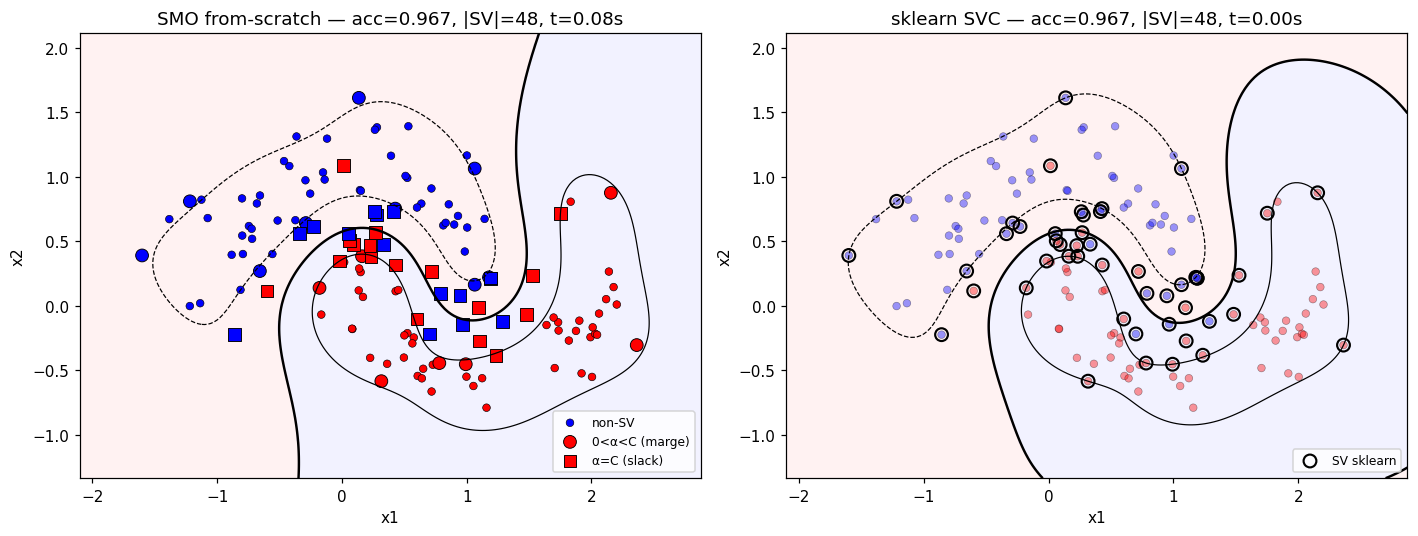
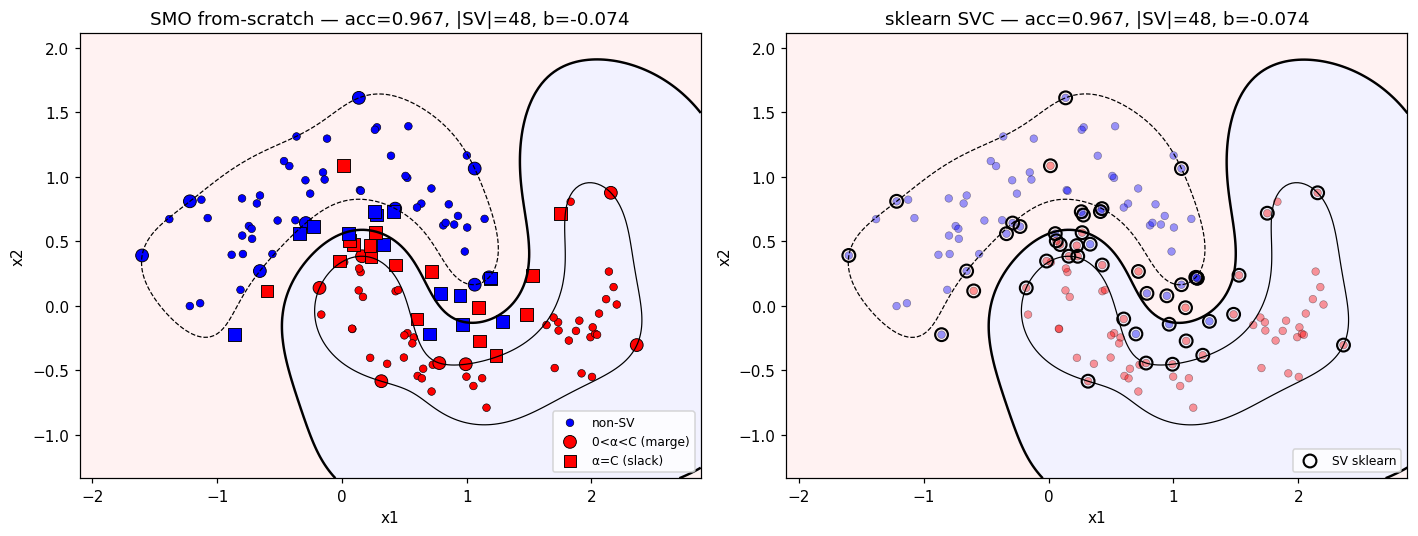
docs(ml,#16061): galerie, manifeste et navigation pour 2.7b SMO from scratch
- README : ligne 2.7b dans la vue d'ensemble, figure de la galerie, noeud
  mermaid en accretion de 2.7 (branche laterale, chaine principale intacte)
  et references transverses (Platt 1998, Fan-Chen-Lin 2005, Chang & Lin 2011)
- MANIFEST : 7e entree ml27b-smo-frontiere.png (source cellule 15 / output 0,
  SHA-256, geometrie RGBA 1418x536, description visuelle, alt-text, poids,
  verdict de contenu, exclusions), plus une note d'ajout datee en tete
- figure regeneree par la re-execution : 158 188 octets,
  sha256 b9f12abe7968c218f2acca5dfe0630b8c75c95dc4a76446eeb50c5836f33c231
  (byte-identique a l'execution precedente, notebook seede)

Prose ajoutee en francais ; aucun bloc CATALOG-STATUS touche, catalogue
byte-identique a origin/main.

diff --git a/MyIA.AI.Notebooks/ML/DataScienceWithAgents/02-ML-Cours/README.md b/MyIA.AI.Notebooks/ML/DataScienceWithAgents/02-ML-Cours/README.md
@@ -28,6 +28,7 @@ La thèse est volontairement classique : on ne peut évaluer ce qu'un agent gén
 | [2.5c-Equite-Sous-Groupes](2.5c-Equite-Sous-Groupes.ipynb) | Équité par sous-groupe : parité démographique, equalized odds, l'incompatibilité des trois métriques sous prévalences différentes (Chouldechova) et le post-traitement par seuils par groupe (Hardt) | **L'accuracy globale ne suffit pas** : 96,4 % global coexiste avec deux groupes à [0,977–0,995] et [0,922–0,957] | synthétique contrôlé (2 groupes, prévalences réglables) |
 | [2.6-Clustering-KMeans-PCA](2.6-Clustering-KMeans-PCA.ipynb) | Apprentissage non supervisé : KMeans + ACP | **Structure retrouvée sans étiquettes** (PCA 2D + reconstruction) | réel `load_digits` |
 | [2.7-Modeles-Non-Parametriques](2.7-Modeles-Non-Parametriques.ipynb) | SVM à noyau et k plus proches voisins | **Le kernel trick rendu visible** (linéaire vs RBF sur demi-lunes) | synthétique `make_moons` + réel `load_breast_cancer` |
+| [2.7b-SMO-From-Scratch](2.7b-SMO-From-Scratch.ipynb) | *Accrétion de 2.7* — SMO (Platt) écrit à la main : sous-problème 2D, heuristique de working set, KKT et gap de dualité | **Le solveur écrit à la main retrouve sklearn** : même biais à 4·10⁻⁴ près, gap de dualité ≈ 3·10⁻³ | synthétique `make_moons` |
 | [2.8-Theorie-PAC](2.8-Theorie-PAC.ipynb) | Théorie PAC : sample complexity et dimension VC | **La borne PAC prédit l'empirique** (m_min théorique vs courbe d'erreur) | synthétique `make_*` |
 | [2.8b-Theorie-PAC-Lean](2.8b-Theorie-PAC-Lean.ipynb) | *Compagnon Lean* (kernel `lean4-wsl`) — la même borne, **démontrée** plutôt que mesurée | **Ce que 2.8 constate, le lake le prouve** : Hoeffding, borne de l'union, ERM, complexité d'échantillon | aucun (arithmétique exacte) |
 | [2.8c-Borne-Temoin-Concentration](2.8c-Borne-Temoin-Concentration.ipynb) | *Carte transversale + compagnon numérique Python* — Novikoff, témoin extrémal et Hoeffding bilatérale sur des instances seedées | **Mesurer avant de certifier** : 2.8c rejoue les trois phénomènes en NumPy ; 2.8b et 2.8d portent les preuves Lean | synthétique seedé |
@@ -81,6 +82,10 @@ La série ne se contente pas d'ajuster des modèles : chaque chapitre **rend vis
 
 <p align="center"><a href="2.6-Clustering-KMeans-PCA.ipynb"><img src="assets/readme/ml26-pca.png" width="560" alt="Réduction de dimension (ACP) : structure des chiffres retrouvée sans étiquettes en 2 composantes."></a></p>
 
+**[2.7b — Le solveur écrit à la main retrouve la bibliothèque.](2.7b-SMO-From-Scratch.ipynb)** Sur les deux demi-lunes, on écrit SMO (l'algorithme de Platt) à la main, puis on superpose sa frontière de décision à celle de `sklearn.svm.SVC`. Les deux panneaux montrent la même frontière, les mêmes marges à −1 / 0 / +1 et les mêmes régimes de vecteurs supports (non-support, `0 < α < C` sur la marge, `α = C` en dessous). Le concept-phare est le contrôle : le biais appris à la main et celui de sklearn coïncident à 4·10⁻⁴, l'écart maximal de fonction de décision reste sous 5·10⁻³, et le **gap de dualité** chiffre l'écart à l'optimum à environ 3·10⁻³ — un solveur artisanal dont on peut prouver qu'il converge vers la même solution.
+
+<p align="center"><a href="2.7b-SMO-From-Scratch.ipynb"><img src="assets/readme/ml27b-smo-frontiere.png" width="620" alt="SMO écrit à la main vs sklearn SVC : frontières de décision superposées sur les deux demi-lunes, marges à −1/0/+1 et régimes de vecteurs supports ; biais appris b = −0.074 dans les deux panneaux."></a></p>
+
 Chaque figure renvoie au notebook dont elle est extraite ; la provenance détaillée (cellule, output, poids, alt-text) figure dans [`assets/readme/MANIFEST.md`](assets/readme/MANIFEST.md).
 
 ## L'arc pédagogique
@@ -98,7 +103,9 @@ flowchart TD
       E["2.5 - Biais-variance, CV, ROC<br/>évaluer rigoureusement<br/>ROC + coût du seuil (FN vs FP)"]
       E2["2.5b - Calibration des probabilités<br/>discrimination vs calibration<br/>reliability diagram, ECE, Brier"]
       G["2.7 - SVM à noyau et k-NN<br/>modèles non paramétriques<br/>kernel trick (linéaire vs RBF)"]
+      M["2.7b - SMO from scratch (accrétion de 2.7)<br/>écrire le solveur à la main<br/>sous-problème 2D, KKT, gap de dualité"]
       A --> B --> C --> D --> E --> E2 --> G
+      G -. "sous le capot : le solveur écrit à la main" .-> M
     end
     subgraph UNSUP["Apprentissage non supervisé (2.6)"]
       F["2.6 - Clustering et ACP<br/>travailler sans étiquettes<br/>structure retrouvée (PCA 2D + reconstruction)"]
@@ -155,7 +162,7 @@ Cette série est le **référent manuel** des labs agentic qui suivent. Une fois
 
 ## Références transverses
 
-Les citations canoniques ancrées dans la série (cellule `## References` de chaque notebook) incluent : Mitchell 1997 (généralisation), Cauchy 1847 (descente de gradient), Nelder & Wedderburn 1972 (modèles linéaires généralisés), Cox 1958 (régression logistique), Breiman et al. 1984 (CART), Breiman 2001 (forêts aléatoires), Friedman 2001 (gradient boosting), Stone 1974 (validation croisée), Bradley 1997 (AUC), Brier 1950 (score de Brier), Niculescu-Mizil & Caruana 2005 (calibration par famille de modèles), Platt 1999 (Platt scaling), Zadrozny & Elkan 2002 (régression isotonique), Guo et al. 2017 (ECE, temperature scaling), MacQueen 1967 (k-means), Pearson 1901 (ACP), Cortes & Vapnik 1995 (réseaux de vecteurs supports), Cover & Hart 1967 (k plus proches voisins), Valiant 1984 (théorie PAC), Vapnik & Chervonenkis 1971 (dimension VC), Novikoff 1962 (convergence du perceptron), Bergstra et al. 2011 (TPE), Bergstra & Bengio 2012 (random search), Akiba et al. 2019 (Optuna), Hoerl & Kennard 1970 (ridge), Wold 1975 (NIPALS/PLS), de Jong 1993 (SIMPLS), Frank & Friedman 1993 (continuum ridge/PCR/PLS), Jolliffe 2002 (ACP), Hastie/Tibshirani/Friedman 2009 (*The Elements of Statistical Learning*) et Pedregosa et al. 2011 (scikit-learn).
+Les citations canoniques ancrées dans la série (cellule `## References` de chaque notebook) incluent : Mitchell 1997 (généralisation), Cauchy 1847 (descente de gradient), Nelder & Wedderburn 1972 (modèles linéaires généralisés), Cox 1958 (régression logistique), Breiman et al. 1984 (CART), Breiman 2001 (forêts aléatoires), Friedman 2001 (gradient boosting), Stone 1974 (validation croisée), Bradley 1997 (AUC), Brier 1950 (score de Brier), Niculescu-Mizil & Caruana 2005 (calibration par famille de modèles), Platt 1999 (Platt scaling), Zadrozny & Elkan 2002 (régression isotonique), Guo et al. 2017 (ECE, temperature scaling), MacQueen 1967 (k-means), Pearson 1901 (ACP), Cortes & Vapnik 1995 (réseaux de vecteurs supports), Platt 1998 (*Sequential Minimal Optimization — a fast algorithm for training support vector machines*), Fan, Chen & Lin 2005 (sélection du working set au second ordre), Chang & Lin 2011 (LIBSVM), Cover & Hart 1967 (k plus proches voisins), Valiant 1984 (théorie PAC), Vapnik & Chervonenkis 1971 (dimension VC), Novikoff 1962 (convergence du perceptron), Bergstra et al. 2011 (TPE), Bergstra & Bengio 2012 (random search), Akiba et al. 2019 (Optuna), Hoerl & Kennard 1970 (ridge), Wold 1975 (NIPALS/PLS), de Jong 1993 (SIMPLS), Frank & Friedman 1993 (continuum ridge/PCR/PLS), Jolliffe 2002 (ACP), Hastie/Tibshirani/Friedman 2009 (*The Elements of Statistical Learning*) et Pedregosa et al. 2011 (scikit-learn).
 
 ## Conclusion — ce que vous emportez
 

diff --git a/MyIA.AI.Notebooks/ML/DataScienceWithAgents/02-ML-Cours/assets/readme/MANIFEST.md b/MyIA.AI.Notebooks/ML/DataScienceWithAgents/02-ML-Cours/assets/readme/MANIFEST.md
@@ -6,6 +6,8 @@ Provenance des images de `assets/readme/` (EPIC #5654, source 1 = extraction d'o
 
 **Note de migration c.769bis (2026-07-22)** : ajout du champ canonique `Description visuelle` à chacune des 6 entrées existantes, dans l'ordre canonique (Source → SHA → Description visuelle → Alt-text FR → Contenu réel vérifié → Verdict → Ce qui n'est PAS). Champs pré-existants préservés intacts (audit c.488 = 5/6 ACCURATE + 1 correction réelle ml23 déjà fixée c.488 = 0 correction supplémentaire requise c.769bis). Vision-QA MiniMax M3 re-confirmée 6/6 ACCURATE par lecture directe des 6 PNG via `Read` (mandat 2026-07-11 — vision ACTIVE lanes CoursIA-2). Partition-cœur ML/DataScienceWithAgents (10ᵉ famille distincte c.754+).
 
+**Note d'ajout c.16116 (2026-09-14)** : **7ᵉ entrée** — `ml27b-smo-frontiere.png`, produite par la re-exécution Papermill canonique (`scripts/notebook_tools/notebook_tools.py execute`) du notebook `2.7b-SMO-From-Scratch.ipynb` (PR #16116, accrétion `b` de 2.7). L'image était auparavant orpheline (présente sous `assets/readme/` mais absente de la galerie du README et de ce manifeste). Géométrie (`1418×536`, mode RGBA), poids et SHA-256 **mesurés sur l'artefact** par `PIL` + `hashlib` ; verdict de contenu établi par **lecture directe G.1** du PNG via `Read` (les deux titres de panneaux ont été lus dans la figure, et non déduits de la prose du notebook).
+
 ## ml21-overfitting.png
 
 - **Source** : notebook `2.1-Workflow-ML.ipynb` (cellule 11, output 0, `display_data` `image/png`)
@@ -71,3 +73,14 @@ Provenance des images de `assets/readme/` (EPIC #5654, source 1 = extraction d'o
 - **Contenu réel vérifié (2026-07-14, c.488)** : **Single panel** scatter matplotlib sur le dataset `load_digits` (1 797 images 8×8 = 1 797 points). Axe x « Composante principale 1 » -35→35 ; axe y « Composante principale 2 » -30→30. Points colorés selon le **vrai chiffre** (colorbar discrète à droite avec labels 0/1/2/3/4/5/6/7/8/9 et label « chiffre (vrai label, pour verification) »). Amas relativement distincts mais avec recouvrement significatif entre chiffres visuellement proches (4/5/6, 3/5/8). Title « Projection PCA (2 composantes) - couleur = vrai chiffre ».
 - **Verdict** : **VRAI** — alt-text capture l'enseignement (structure retrouvée sans étiquettes via PCA).
 - **Ce qui n'est PAS dans la figure** : pas d'annotation du pourcentage de variance expliquée par chaque composante (information essentielle pour interpréter la projection 2D) ; pas de marqueurs des centres KMeans si le notebook enchaîne clustering après PCA (le titre précise « couleur = vrai chiffre » = usage a posteriori, pas clustering) ; pas de graphe de la variance expliquée cumulée (scree plot) ; la colorbar explicite « pour vérification » rappelle que les étiquettes n'ont pas servi à l'ajustement.
+
+## ml27b-smo-frontiere.png
+
+- **Source** : notebook `2.7b-SMO-From-Scratch.ipynb` (cellule 15, output 0, `display_data` `image/png`)
+- **SHA** : `b9f12abe7968c218` (taille 158 188 octets)
+- **Description visuelle** : Figure matplotlib **2 panneaux côte-à-côte** 1418×536 px (mode RGBA, std 45.8/48.9/45.8). Fond de décision saturé bicolore (régions rose/bleu pastel `#FFAAAA`/`#AAAAFF`) = signature d'un std élevé sur les 3 canaux. Dataset `make_moons` binaire projeté en 2D (axes « x1 » × « x2 »), nuage de points bleus/rouges entremêlé. Les deux panneaux portent les contours de décision −1 / 0 / +1 (le contour central en trait plus épais = frontière f(x)=0), les lignes de marge en pointillés, et les vecteurs supports encerclés. **Gauche** : « SMO from-scratch — acc=0.967, |SV|=48, b=-0.074 » avec légende distinguant 3 régimes KKT : points `non-SV` (petits), `0<α<C (marge)` (gros ronds), `α=C (slack)` (gros carrés). **Droite** : « sklearn SVC — acc=0.967, |SV|=48, b=-0.074 », vecteurs supports en cercles à bords noirs (`facecolors='none'`). Les deux titres portent le même `b = -0.074` à la précision affichée (`:+.3f`), signature visuelle de l'accord SMO ↔ sklearn après propagation du biais.
+- **Alt-text (FR)** : Frontière de décision d'un SVM RBF sur `make_moons` : le SMO écrit à la main (gauche) et le `SVC` de sklearn (droite) trouvent la même frontière, les mêmes 48 vecteurs supports et le même biais b = −0.074 dans les deux panneaux.
+- **Poids** : 154.5 KB (natif)
+- **Contenu réel vérifié (2026-09-14, c.16116)** : **2 panneaux côte à côte**, figure 1418×536 px en mode RGBA. Jeu de données `make_moons` binaire (2 croissants entremêlés, points bleus/rouges). Axes « x1 » (horizontal) × « x2 » (vertical) sur les deux panneaux. Contours de décision à −1 / 0 / +1, régions remplies rose/bleu (`contourf` sur `np.sign(Z)`, couleurs `['#FFAAAA', '#AAAAFF']`). Panneau gauche « SMO from-scratch — acc=0.967, |SV|=48, b=-0.074 » : légende à 3 entrées `non-SV` / `0<α<C (marge)` / `α=C (slack)` (le carré marque les points bornés à α=C). Panneau droit « sklearn SVC — acc=0.967, |SV|=48, b=-0.074 » : mêmes contours, vecteurs supports en cercles creux noirs. **Aucune durée ni timing dans les titres** (les deux titres n'affichent que acc / |SV| / b). Le `b = -0.074` des deux panneaux correspond à la mesure du notebook (cellule 17 : b_SMO −0.0737 vs b_sklearn −0.0741, tous deux formatés `:+.3f` → `-0.074`).
+- **Verdict** : **VRAI** — alt-text capture l'enseignement (le solveur écrit à la main retrouve la frontière et les supports de sklearn). Précision transférable : acc=0.967 identique, |SV|=48 identique, b=−0.074 identique à l'affichage ; la propagation corrigée du biais dans `smo_fit` est ce qui rend l'accord visible (avant le fix, le panneau SMO titrait b=+0.000).
+- **Ce qui n'est PAS dans la figure** : pas de trace d'itération ni de convergence de la boucle SMO (le panneau est une photo à l'optimum, pas une courbe d'apprentissage) ; pas de « duality gap » ni de valeur KKT annotée (chiffrés dans la cellule 21, pas ici) ; pas de sous-figure du score (`α_i y_i` ou `‖w‖²`) ; pas de barre d'erreur ni de recouvrement inter-seeds (une seule exécution sur un split fixe) ; pas de durée d'exécution affichée (les timings machine-dépendants ont été retirés des titres).
